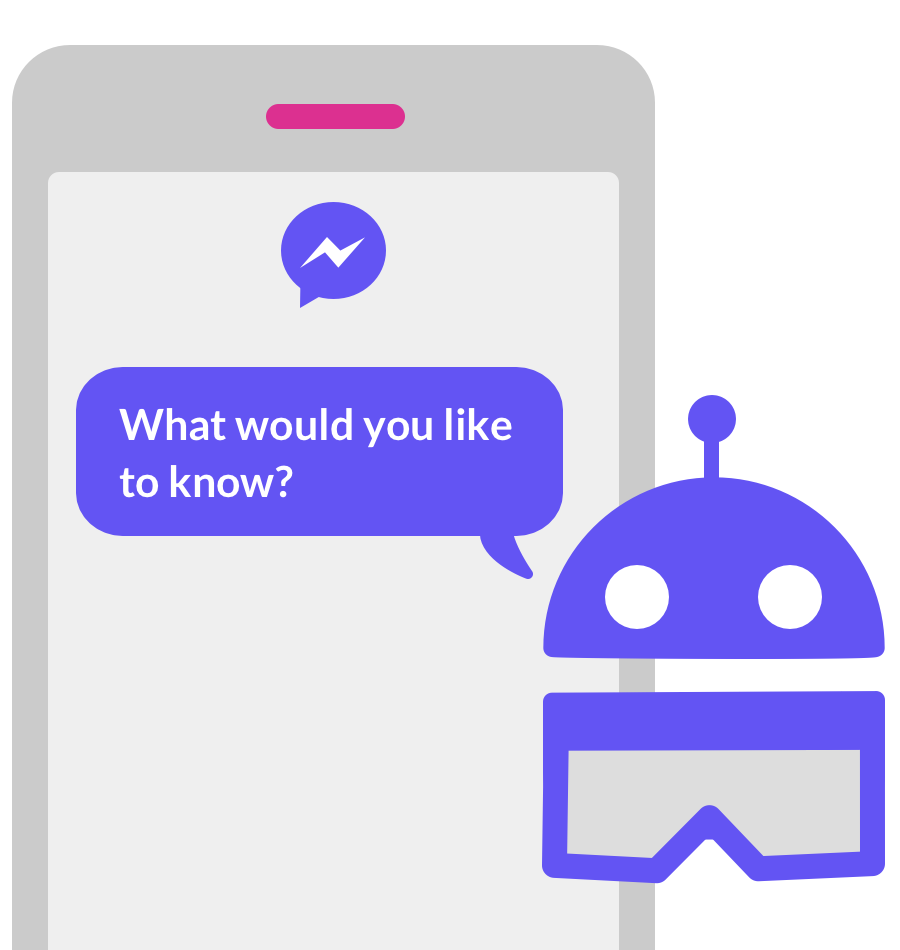
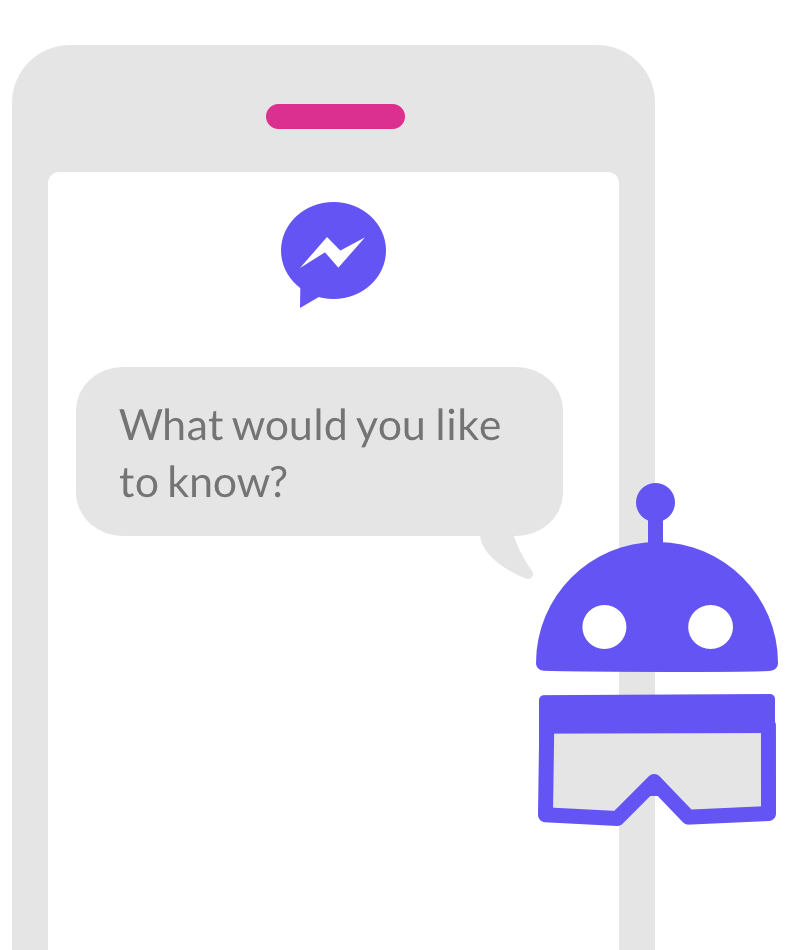
New style (like Savi)

diff --git a/index.html b/index.html
@@ -13,7 +13,7 @@
         <link rel="stylesheet" href="css/normalize.css">
         <link rel="stylesheet" href="css/transition.min.css">
         <link rel="stylesheet" href="css/popup.min.css">
-        <link href="https://fonts.googleapis.com/css?family=Lato:400,700,900" rel="stylesheet">
+        <link href="https://fonts.googleapis.com/css?family=Lato:100,300,400,700,900" rel="stylesheet">
 
         <!-- Latest compiled and minified CSS -->
         <!-- <link rel="stylesheet" href="https://maxcdn.bootstrapcdn.com/bootstrap/3.3.7/css/bootstrap.min.css" integrity="sha384-BVYiiSIFeK1dGmJRAkycuHAHRg32OmUcww7on3RYdg4Va+PmSTsz/K68vbdEjh4u" crossorigin="anonymous"> -->
@@ -38,8 +38,8 @@
         </div>
 
         <div class="landing-panel">
-          <h2><span>We voted - what happens next?</span></h2>
-          <h3><span><b>BriefBot</b> is the Facebook chatbot for keeping tabs on <a href="#brexit" class="brexit" data-html="<div class='brexit-popup'><h4>The 350 million-dollar question..</h4><h3>How do you pronounce <span>Brexit</span>?</h3><button>Breggs-it</button><button>Breck-zit</button></div>">Brexit</a></span></h3>
+          <h2><span>News should be a conversation</span></h2>
+          <h3><span><b class="highlight">BriefBot</b> is the Facebook chatbot for <a href="#brexit" class="brexit" data-html="<div class='brexit-popup'><h4>The 350 million-dollar question..</h4><h3>How do you pronounce <span>Brexit</span>?</h3><button>Breggs-it</button><button>Breck-zit</button></div>"></a>keeping tabs on the world</span></h3>
           <img class="landing-bot" src="img/landing-bot.png" alt="" />
           <img class="landing-bot-2" src="img/landing-bot-2.png" alt="" />
           <!-- <a class="typeform-share button main-button" href="/form" target="_blank">Say hello</a> -->
@@ -54,41 +54,41 @@
 
         <div class="panel timeline" id="about">
           <div class="max-width">
-            <h2><span style="font-weight:400;color:#777;">Think Brexit's over?</span> It hasn't even begun.</h2>
+            <h2><span style="font-weight:400;color:#777">Why are we still reading articles?</span></h2>
             <img class="scroll-reveal" src="img/articles2.png" alt="" />
             <h3></h3>
             <p>
-              You’ve got trade deals. Negotiations. Rewriting 80,000 pages of law. Spread over years, possibly decades.
+              Seriously. The news article dates back to before the invention of the telescope.
             </p>
-            <p class="highlight">
-              So how do we mere mortals keep tabs on it all?
+            <p class="highlight" style="font-size: 1.3em; font-weight: 400">
+              The world is changing fast - isn't it time for a reboot?
             </p>
             <!-- <div class="panel-half">
             </div>
             <div class="panel-half">
-              <h4>That’s why BriefBot’s doing the hard work for you.</h4>
+              <h4>That’s why Savi’s doing the hard work for you.</h4>
             </div> -->
           </div>
         </div>
 
-        <div class="panel meet-briefbot" id="how-it-works">
+        <div class="panel meet-savi" id="how-it-works">
           <div class="max-width">
-            <h2><span style="font-weight:400;color:#777;">Meet</span> BriefBot</h2>
+            <h2><span style="font-weight:400;color:#777;">Meet</span> <span class="highlight">BriefBot</span></h2>
             <!-- <h3>It hasn't even begun.</h3> -->
             <div class="panel-half small">
               <img class="scroll-reveal" src="img/bubble-2.png" alt="" />
             </div>
             <div class="panel-half">
               <ol>
-                <li>Let BriefBot know what Brexit issues <span class="highlight">you care about</span></li>
-                <li>BriefBot keeps you <span class="highlight">up-to-date</span> and <span class="highlight">answers your questions</span></li>
-                <li>The more you chat, the <span class="highlight">smarter</span> BriefBot gets</li>
+                <li>Let Savi know what issues <span class="highlight">you care about</span></li>
+                <li>Savi keeps you <span class="highlight">up-to-date</span> and <span class="highlight">answers your questions</span></li>
+                <li>The more you chat, the <span class="highlight">smarter</span> Savi gets</li>
               </ol>
               <!-- <p>
-                BriefBot is a chatbot that helps keep you informed about Brexit in the most simple, helpful and friendly way possible.
+                Savi is a chatbot that helps keep you informed about Brexit in the most simple, helpful and friendly way possible.
               </p>
               <p>
-                It starts by getting to know you and what you care about by sharing news articles, analysis, polls and more about Brexit directly to your pocket. Each time you update your preferences and respond to what it sends, BriefBot gets smarter. It’s so clever that eventually you’ll be able to ask it questions like ‘I’m looking to get a job in insurance, how is Brexit affecting that?’ or ‘When is the best time to sell my house?’. Pretty neat, huh?
+                It starts by getting to know you and what you care about by sharing news articles, analysis, polls and more about Brexit directly to your pocket. Each time you update your preferences and respond to what it sends, Savi gets smarter. It’s so clever that eventually you’ll be able to ask it questions like ‘I’m looking to get a job in insurance, how is Brexit affecting that?’ or ‘When is the best time to sell my house?’. Pretty neat, huh?
               </p> -->
             </div>
             <div class="panel-half big">
@@ -101,33 +101,33 @@
           <div class="max-width">
             <h2><span style="font-weight:400;color:#777;">Don't worry - </span>we got your back</h2>
             <div class="scroll-reveal">
-              <div class="float-left"><img src="img/time-bot.png" alt="" /></div>
+              <div class="float-left"><img src="img/clock.png" alt="" /></div>
               <h3>Saving you <span style="color:#6354f3;">time</span></h3>
               <p>
-                We’re all <b class="highlight grey">busy</b>. Fortunately, BriefBot just loves spending time staying on top of the most important issue of our generation.
+                We’re all <b class="highlight grey">busy</b>. Fortunately, Savi just loves spending time staying on top of the day's big issues, so you don't have to.
               </p>
               <p>
                 No more endless link clicking or Google searching. Just the <b class="highlight"> stuff that matters to you</b>.
               </p>
             </div>
             <div class="scroll-reveal">
-              <div class="float-right"><img src="img/simple-bot.png" alt="" /></div>
+              <div class="float-right"><img src="img/coffee.png" alt="" /></div>
               <h3>Keeping it <span style="color:#6354f3;">simple</span></h3>
               <p>
-                Let’s be honest, Brexit is <b class="highlight grey">confusing</b>. That’s why BriefBot uses specialist expertise and cutting edge tech to break it down, step by step.
+                Let’s be honest, news can get <b class="highlight grey">complicated</b>. That’s why Savi uses specialist expertise and cutting edge tech to break it down, step by step.
               </p>
               <p>
-                BriefBot’s also pretty friendly and easy to get on with - delivering you political updates <b class="highlight">like you’ve never seen before</b>.
+                Savi’s also pretty friendly and easy to get on with - delivering you political updates <b class="highlight">like you’ve never seen before</b>.
               </p>
             </div>
             <div class="scroll-reveal">
-              <div class="float-left"><img src="img/innocent-bot.png" alt="" /></div>
+              <div class="float-left"><img src="img/innocent.png" alt="" /></div>
               <h3>No <span style="color:#6354f3;">funny business</span></h3>
               <p>
-                BriefBot <b class="highlight grey">doesn’t care</b> how you voted or even whether you voted. BriefBot’s entirely neutral and has no opinion, (or even the right to vote).
+                Savi <b class="highlight grey">doesn’t care</b> what side of the fence you're on. Savi’s entirely neutral and has no opinion, (or even the right to vote).
               </p>
               <p>
-                All BriefBot cares about is getting you informed about what’s going on - so you can <b class="highlight">make up your own mind</b>.
+                All Savi cares about is getting you informed about what’s going on - so you can <b class="highlight">make up your own mind</b>.
               </p>
             </div>
           </div>
@@ -201,7 +201,7 @@
                 <div class="panel-heading" role="tab" id="headingFive">
                   <h4 class="panel-title">
                     <a class="collapsed" role="button" data-toggle="collapse" data-parent="#accordion" href="#collapseFive" aria-expanded="false" aria-controls="collapseFive">
-                      <span style="font-size:0.8em; margin-right: 0.5em;">►</span> How do I stop using BriefBot?
+                      <span style="font-size:0.8em; margin-right: 0.5em;">►</span> How do I stop using Savi?
                     </a>
                   </h4>
                 </div>
@@ -247,10 +247,10 @@
                   </li>
                   <li class="footer-menu-divider">&sdot;</li>
                   <li>
-                      <a class="page-scroll" href="#contact">Contact</a>
+                      <a class="page-scroll" href="https://m.me/brexitbrief">Contact</a>
                   </li>
               </ul>
-              <p class="copyright text-muted small">Copyright &copy; BriefBot - All Rights Reserved</p>
+              <p class="copyright text-muted small">Copyright &copy; Savi - All Rights Reserved</p>
             </div>
           </div>
         </footer>

diff --git a/css/main.css b/css/main.css
@@ -11,8 +11,8 @@
    ========================================================================== */
 html, body { height: 100%; }
 html {
-    color: #222;
-    font-size: 1em;
+    color: #777;
+    font-size: 1.2em;
     line-height: 1.4;
     font-family: 'Lato', sans-serif;
 }
@@ -287,8 +287,8 @@ textarea {
 
 a.typeform-share.button {
   padding: 0 1em;
-  font-weight: bold;
-  border: solid #6354f3 6px;
+  font-weight: normal;
+  border: solid #6354f3 3px;
   border-radius: 10px;
   background: white;
   color: #6354f3;
@@ -307,7 +307,7 @@ a.typeform-share.button {
   color: #da368f;
 }
 .highlight.grey {
-  color: #555;
+  color: #777;
 }
 
 
@@ -335,10 +335,10 @@ a.typeform-share.button {
 
 .navbar {
   margin: auto;
-  padding: 0 3em;
+  padding: 0.5em 3em;
   max-width: 1200px;
   height: 50px;
-  font-size: 1.1em;
+  font-size: 1em;
 }
 .navbar .logo, .navbar ul {
   display: inline-block;
@@ -357,7 +357,7 @@ a.typeform-share.button {
   display: inline-block;
   padding: 10px 25px;
   margin: 0 15px;
-  font-weight: bold;
+  /*font-weight: bold;*/
   border-radius: 30px;
   color: #6354f3;
   background: #eee;
@@ -392,11 +392,11 @@ a.typeform-share.button {
   background: rgba(255,255,255,0.8);
 }
 .landing-panel h2 {
-  font-size: 3.5em;
+  font-size: 2.8em;
 }
 .landing-panel h3 {
   margin-top: -1.1em;
-  font-size: 1.8em;
+  font-size: 1.4em;
 }
 .landing-panel a.brexit {
   border-bottom: 6px solid #ea3899;
@@ -436,6 +436,8 @@ a.typeform-share.button {
 }
 .landing-panel a.typeform-share.button {
   font-size: 2.5em;
+  font-size: 2em;
+  padding: 0.2em 1.6em;
   transition: background 0.2s, color 0.2s;
 }
 .landing-panel a.typeform-share.button:hover {
@@ -463,6 +465,7 @@ font-size: 18px;
 .panel h2, .panel h3, .panel h4 {
   text-align: center;
   color: #6354f3;
+  font-weight: 400;
 }
 .panel h2 {
   font-size: 2.5em;
@@ -473,8 +476,8 @@ font-size: 18px;
 .panel h4 {
   font-size: 1.3em;
 }
-.panel.timeline, .panel.features {
-  background: #eee;
+.panel.timeline, .panel.features, .panel.faqs {
+  /*background: #eee;*/
 }
 .panel.timeline {
   margin-top: -7em;
@@ -492,17 +495,17 @@ font-size: 18px;
   margin-top: -0.8em;
   font-size: 1.8em;
 }
-.panel.meet-briefbot ol li {
+.panel.meet-savi ol li {
   font-size: 22px;
   margin: 1em;
   text-align: left;
   padding-left: 0.8em;
 }
-.panel.meet-briefbot .big img{
+.panel.meet-savi .big img{
   margin: -2em 0 -3em 0;
   max-height: 22em;
 }
-.panel.meet-briefbot .small {
+.panel.meet-savi .small {
   margin-top: -2em;
   display: none;
 }
@@ -538,9 +541,6 @@ font-size: 18px;
   margin: -0.2em 0.2em 0 -0.05em;
 }
 
-.panel.faqs {
-  background: #eee;
-}
 .panel.faqs h4 {
   text-align: left;
 }
@@ -551,7 +551,7 @@ font-size: 18px;
 .panel.footer {
   text-align: center;
   padding: 2em;
-  background: #ddd;
+  background: #eee;
 }
 .panel.footer ul {
   padding: 0;
@@ -627,10 +627,23 @@ font-size: 18px;
   .navbar ul {
     display: none;
   }
+  .panel h2 {
+    font-size: 9vw;
+  }
   .landing-panel {
     /*margin-top: 0;*/
     padding-top: 0;
     font-size: 3vw;
+  }
+  .landing-panel h2 {
+    font-size: 10vw;
+  }
+  .landing-panel h3 {
+    padding-top: 0.5em;
+    font-size: 6vw;
+  }
+  .landing-panel a.typeform-share.button {
+    font-size: 2.4em;
   }
   .landing-panel img.landing-bot {
     display: none;
@@ -659,16 +672,19 @@ font-size: 18px;
   .panel.timeline {
     margin-top: 0;
   }
-  .panel.meet-briefbot .big {
+  .panel.timeline img {
+     margin: -0.5em 0 0.5em 0;
+  }
+  .panel.meet-savi .big {
     display: none;
   }
-  .panel.meet-briefbot .small {
+  .panel.meet-savi .small {
     display: block;
   }
-  .panel.meet-briefbot ol {
+  .panel.meet-savi ol {
     padding: 0;
   }
-  .panel.meet-briefbot ol li {
+  .panel.meet-savi ol li {
     font-size: 20px;
   }
   .panel.features h2 {
@@ -688,6 +704,9 @@ font-size: 18px;
     display: block;
     margin: 0.2em;
     text-align: center;
+  }
+  .panel.hello a.button {
+    margin: 0 0 -0.3em 0;
   }
 
   .brexit-popup {
